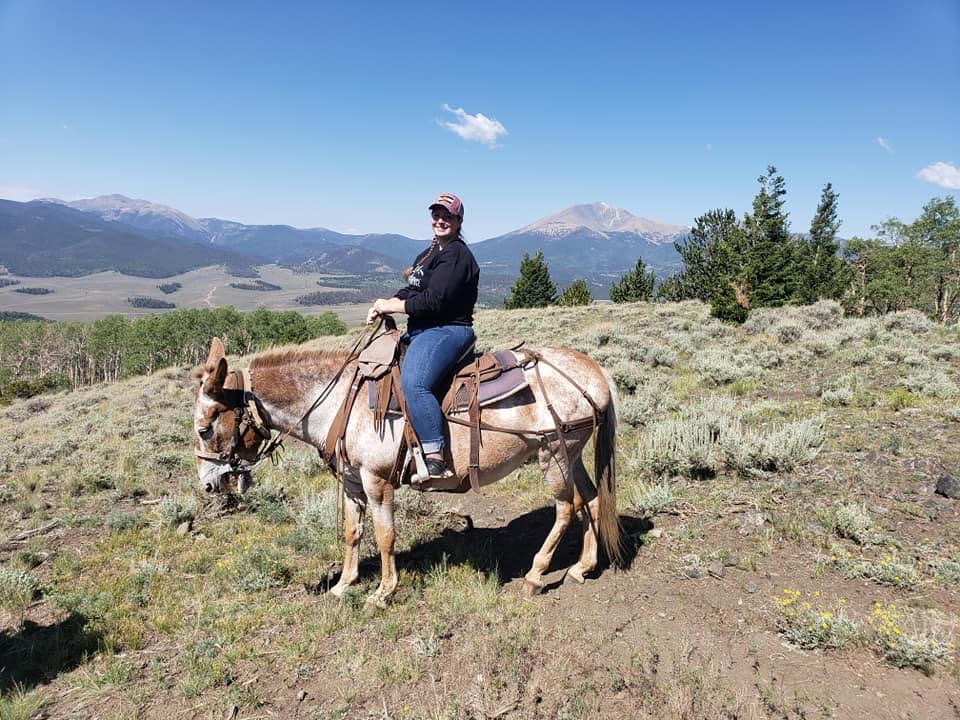
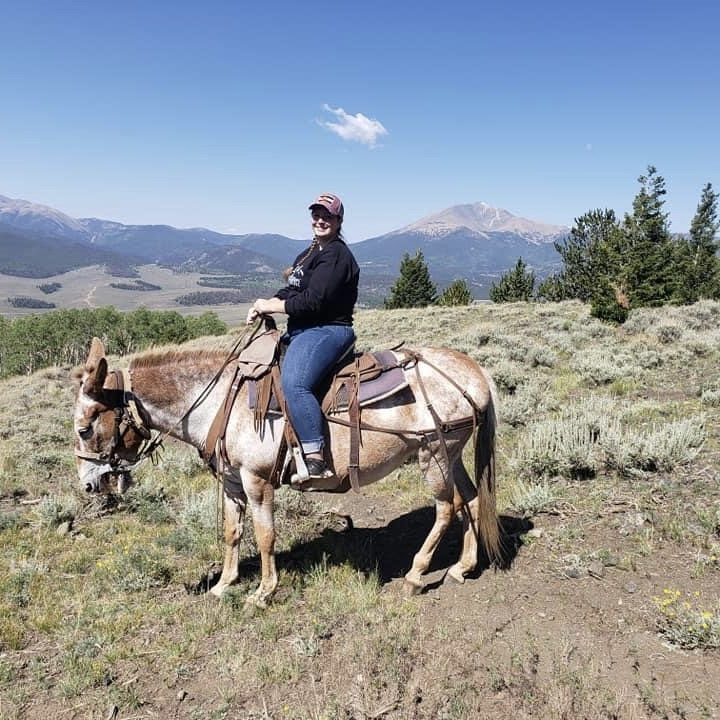
multiple changes to css

diff --git a/about.html b/about.html
@@ -52,19 +52,19 @@
         </div>
         <div class="second-container">
             <div class="second-container-photos">
-                <div>
+                <div class="bubba">
                     <img class="bubba" src="images/bubba.jpg" alt="Yellow lab/golden retriever mix lying on the floor with his front paws crossed">
                 </div>
-                <div>
+                <div class="george">
                     <img class="george" src="images/george.jpg" alt="Black, brow, and white basset hound lying in the grass under a tree">
                 </div>
-                <div>
+                <div class="fred">
                     <img class="fred" src="images/fred.jpg" alt="Red and white basset hound sitting in the passanger seat of a vehicle">
                 </div>
-                <div>
-                    <img class="iris-cali" src="images/iriscali.jpeg" alt="Grey and white cat and brown tiger cat lying on a pink plaid blanket">
+                <div class="iris-cali">
+                    <img class="iris-cali" src="images/iris-cali.JPG" alt="Grey and white cat and brown tiger cat lying on a pink plaid blanket">
                 </div>
-            </div>    
+            </div>   
             <div class="education-text">
                 <h3>Education</h3>
                 <h4>Undergraduate</h4>
@@ -105,7 +105,7 @@
                     Prior to my work in libraries, I worked in the social work field. I provided in-home and in-school substance use therapy to clients, and then worked in a children's advocacy center. When I chose to leave the social work field, I happened upon libraries by accident. I reached out to my local library, the Lake Odessa Community Library, to see if they were hiring, and started working there part-time as a Library Assistant.
                 </p>
                 <p>
-                    While working at the Lake Odessa Community Library, I realized that I wanted to make a career out of library work. I began working as the Circulation Supervisor at the Hastings Public Library. I was recently promoted to Assistant Director at the Hastings Public Library.
+                    While working at the Lake Odessa Community Library, I realized that I wanted to make a career out of library work. In 2023, I began working as the Circulation Supervisor at the Hastings Public Library. At the beginning of 2025, I was promoted to Assistant Director at the Hastings Public Library.
                 </p>
                 <p>
                     <a href="work examples/resume.pdf" target="_blank">Resume</a>
@@ -113,7 +113,7 @@
             </div>
             <div class="third-container-photos">
                 <div>
-                    <img class="victor" src="images/victor.jpeg" alt="Black long-haired cat lying on a wooden floor looking at the camera">
+                    <img class="victor" src="images/victor.jpg" alt="Black long-haired cat lying on a wooden floor looking at the camera">
                 </div>
                 <div>
                     <img class="kyle" src="images/kyle.jpg" alt="Orange tabby cat sitting on a window sill with his tongue sticking out">

diff --git a/style.css b/style.css
@@ -44,6 +44,7 @@ a:visited {
 }
 img {
     max-width: 100%;
+    max-height: 100%;
 }
 nav {
     position: relative;
@@ -76,15 +77,27 @@ ul {
     flex-wrap: nowrap;
     flex-direction: row;
     justify-content: space-evenly;
+    align-items: center;
+}
+.index-inner-container {
+    display: flex;
+    flex-wrap: wrap;
+    align-content: space-around;
+    padding-right: 2%;
 }
 .headshot {
-    max-width: 50%;
-    max-height: 50%;
+    max-width: 75%;
+    max-height: 75%;
+    padding-left: 12%;
+}
+.video {
+    padding-top: 2%;
 }
 .welcome-text {
     width: fit-content;
     border: 2px solid #6F7608;
     font-size: 14pt;
+    padding: 1%;
 }
 .first-container {
     display: flex;
@@ -99,82 +112,72 @@ ul {
     flex-wrap: wrap;
     justify-content: center;
     align-items: center;
-    max-height: 100%;
-    max-width: 100%;
     align-content: center;
-}
-.family {
-    max-width: 50%;
-    max-height: 50%;
-}
-.colorado {
-    max-width: 70%;
-    max-height: 70%;
+    padding-left: 2%;
+    padding-right: 2%;
+    max-width: 25%;
+    max-height: 25%;
 }
 .introduction-text {
+    display: flex;
     width: fit-content;
     border: 2px solid #6F7608;
     font-size: 14pt;
-    min-width: 750px;
+    min-width: 55%;
+    padding: 1%;
+    align-items: baseline;
+    flex-direction: column;
+    margin-right: 4%;
 }
 .second-container {
     display: flex;
     flex-direction: row-reverse;
     flex-wrap: nowrap;
-    justify-content: space-around;
 }
 .second-container-photos {
-    max-width: 100%;
-    max-height: 100%;
-    display: flex;
-    flex-wrap: nowrap;
-    align-items: center;
-    flex-direction: row;
-    justify-content: space-evenly;
-}
-.bubba {
-    max-width: 100%;
-    max-height: 100%;
-}
-.george {
-    max-width: 55%;
-    max-height: 55%;
-}
-.fred {
-    max-width: 100%;
-    max-height: 100%;
-}
-.iris-cali {
-    max-width: 100%;
-    max-height: 100%;
-}
-.third-container {
-    display: flex;
-    flex-wrap: nowrap;
-    align-items: center;
-}
-.third-container-photos {
-    display: flex;
-    flex-wrap: nowrap;
-    align-items: center;
+    display: grid;
+    grid-template-columns: repeat(2, 1fr);
+    gap: 2%;
+    max-height: 50%;
+    max-width: 50%;
+    padding-right: 2%;
 }
 .education-text {
     width: fit-content;
     border: 2px solid #6F7608;
     font-size: 14pt;
+    padding: 1%;
+    margin: 2%;
+    max-width: 55%;
+}
+.third-container {
+    display: flex;
+    flex-wrap: nowrap;
+    align-items: center;
+    flex-direction: row-reverse;
+}
+.third-container-photos {
+    display: flex;
+    flex-wrap: nowrap;
+    align-items: center;
+    padding-left: 2%;
+    gap: 18%;
+}
+.victor {
+    min-width: 150%;
+    min-height: 150%;
+}
+.kyle {
+    max-width: 90%;
+    max-height: 90%;
 }
 .work-text {
     width: fit-content;
     border: 2px solid #6F7608;
     font-size: 14pt;
-}
-.victor {
-    max-width: 50%;
-    max-height: 50%;
-}
-.kyle {
-    max-width: 25%;
-    max-height: 25%;
+    padding: 1%;
+    margin: 2%;
+    min-width: 40%;
 }
 .contact-sub-container {
     display: flex;

diff --git a/index.html b/index.html
@@ -23,23 +23,35 @@
     <main>
         <h2>Home</h2>
         <div class="index-main-container">
-            <div><img class="headshot" src="images/headshot.jpg" alt= "Photo of Tess smiling at the camera"></div>
-            <div class="welcome-text">
-                <h3>Welcome!</h3>
-                <p>
-                Hello, and welcome! I have created this page to serve many purposes:
-                <ul>
-                    <li>To showcase the work I have completed during my time in Wayne State University's Master of Library and Information Sciences Program</li>
-                    <li>To network with classmates and other library professionals</li>
-                    <li>To allow classmates and colleagues to get to know me better</li>
-                </ul>
-                </p>
-                <p>Please feel free to look around, review my work, and connect with me. I look forward to hearing from you!</p>
+            <div>
+                <img class="headshot" src="images/headshot.jpg" alt= "Photo of Tess smiling at the camera">
             </div>
-        </div>
-        <div>
-            <iframe class="video" width="560" height="315" src="https://www.youtube.com/embed/kgymdhPmOvs?si=nttJUT_kMLYuFhep" title="YouTube video player" frameborder="0" allow="accelerometer; autoplay; clipboard-write; encrypted-media; gyroscope; picture-in-picture; web-share" referrerpolicy="strict-origin-when-cross-origin" allowfullscreen></iframe>
-        </div>
+            <div class="index-inner-container">
+                <div class="welcome-text">
+                    <h3>Welcome!</h3>
+                    <p>
+                        Hello, and welcome! I have created this page to serve many purposes:
+                    <ul>
+                        <li>
+                            To showcase the work I have completed during my time in Wayne State University's Master of Library and Information Sciences Program
+                        </li>
+                        <li>
+                            To network with classmates and other library professionals
+                        </li>
+                        <li>
+                            To allow classmates and colleagues to get to know me better
+                        </li>
+                    </ul>
+                    </p>
+                    <p>
+                        Please feel free to look around, review my work, and connect with me. I look forward to hearing from you!
+                    </p>
+                </div>
+                <div>
+                    <iframe class="video" width="560" height="315" src="https://www.youtube.com/embed/kgymdhPmOvs?si=nttJUT_kMLYuFhep" title="YouTube video player" frameborder="0" allow="accelerometer; autoplay; clipboard-write; encrypted-media; gyroscope; picture-in-picture; web-share" referrerpolicy="strict-origin-when-cross-origin" allowfullscreen></iframe>
+                </div>
+            </div>
+        </div>    
     </main>
 </body>
 <footer>
